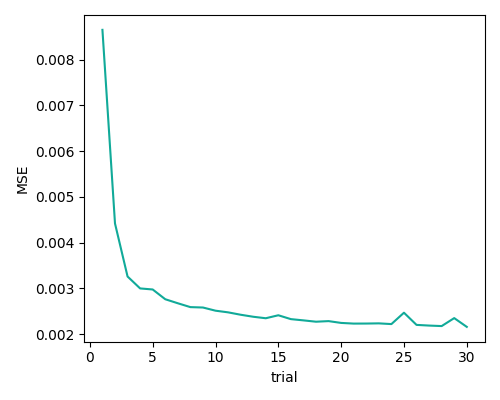
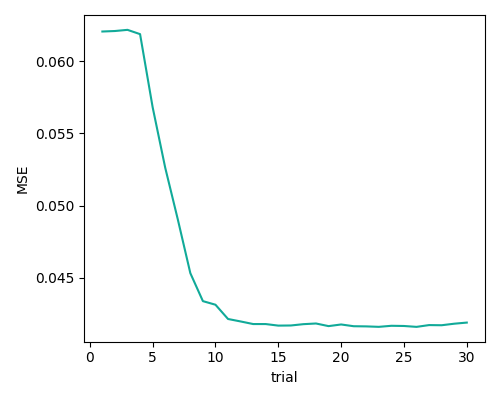
DAE試しに組んでみた

diff --git a/detectDAE.py b/detectDAE.py
@@ -1,0 +1,227 @@
+# -*- coding: utf-8 -*-
+from os import path
+from glob import glob
+import numpy as np
+import matplotlib.pyplot as plt
+from matplotlib.image import imsave,imread
+from skimage.transform import resize
+import os,time,torch
+from torch import nn
+mse = nn.MSELoss()
+
+
+## ニューラルネットワークモデル ##
+    
+class autoencoder(nn.Module):
+    def __init__(self, cn=3):
+        super(autoencoder, self).__init__()
+        self.encoder = nn.Sequential(
+            nn.Linear(128 * 128, 256),  # 入力サイズあってる？
+            nn.ReLU(True),
+            nn.Linear(256, 64),
+            nn.ReLU(True))
+        self.decoder = nn.Sequential(
+            nn.Linear(64, 256),
+            nn.ReLU(True),
+            nn.Linear(256, 128 * 128),  # 出力サイズも
+            nn.Sigmoid())
+
+    def forward(self, x):
+        x = x.view(x.size(0), -1)  # 入力を1次元に変換
+        x = self.encoder(x)
+        x = self.decoder(x)
+        x = x.view(x.size(0), 1, 128, 128)  # 出力を画像の形状に変換
+        return x
+
+
+
+
+
+## データローダ ##
+
+class Gazoudalo:
+    def __init__(self,folder,px,n_batch=4,random=False):
+        self.input_folder = folder + '/input' # データの保存したinputフォルダ
+        self.teach_folder = folder + '/teach' # データの保存したteachフォルダ
+        self.px = px # 画像の大きさ
+        self.n_batch = n_batch # バッチサイズ
+        self.random = random # ランダムするかどうか
+        self.input_file = np.sort(glob(os.path.join(self.input_folder,'*.jpg'))) # フォルダの中の全部の画像の名前
+        self.teach_file = np.sort(glob(os.path.join(self.teach_folder,'*.jpg'))) # フォルダの中の全部の画像の名前
+        self.len = len(self.input_file) # 画像の枚数
+        self.nkai = int(np.ceil(self.len/n_batch)) # このバッチサイズで繰り返すことができる回数
+
+    def __iter__(self):
+        self.i_iter = 0
+        if(self.random):
+            np.random.seed(None)
+            # ランダムで順番を入れ替える
+            self.i_rand = np.random.permutation(self.len)
+        else:
+            np.random.seed(0)
+            self.i_rand = np.arange(self.len)
+        return self
+
+    def __next__(self):
+        if(self.i_iter>=self.len):
+            raise StopIteration
+
+        x = []
+        y = []
+        for i in self.i_rand[self.i_iter:self.i_iter+self.n_batch]:
+            xi = imread(self.input_file[i])/255. # input読み込み
+            yi = imread(self.teach_file[i])/255. # teach読み込み
+
+            # 指定のサイズに変える
+            xi = resize(xi,(self.px,self.px),anti_aliasing=True,mode='constant')
+            yi = resize(yi,(self.px,self.px),anti_aliasing=True,mode='constant')
+            xi = torch.Tensor(xi[None, :, :])
+            yi = torch.Tensor(yi[None, :, :])
+            x.append(xi)
+            y.append(yi)
+
+        x = torch.stack(x)
+        y = torch.stack(y)
+        self.i_iter += self.n_batch
+        return x,y
+
+
+## 画像変換器 ##
+
+class Dinonet:
+    def __init__(self,net,cn,save_folder,learning_rate=1e-3,gpu=0):
+        self.learning_rate = learning_rate
+        self.cn = cn
+        self.net = net(cn=cn)
+        self.opt = torch.optim.Adam(self.net.parameters(),lr=learning_rate)
+        if(gpu):
+            # GPUを使う場合
+            self.dev = torch.device('cuda')
+            self.net.cuda()
+        else:
+            self.dev = torch.device('cpu')
+
+        self.save_folder = save_folder
+        # 保存のフォルダが元々なければ予め作っておく
+        if(not os.path.exists(save_folder)):
+            os.mkdir(save_folder)
+        # 最初から開始
+        self.mounankai = 0
+        self.loss = []
+        self.psnr = []
+
+    def gakushuu(self,dalo_train,dalo_test,n_loop,n_kaku=5,cnt_multi=10):
+        print('訓練:%d枚 | 検証%d枚'%(dalo_train.len,dalo_test.len))
+        t0 = time.time()
+        test_data = []
+        for da_ken in dalo_test:
+            test_data.append(da_ken)
+        dalo_train.random = True
+        print('画像の準備に%.3f分かかった'%((time.time() - t0)/60))
+        print('==学習開始==')
+
+        t0 = time.time()
+        # 何回も繰り返して訓練する
+        for kaime in range(self.mounankai,self.mounankai+n_loop):
+            # ミニバッチ開始
+            for i_batch,(x,y) in enumerate(dalo_train):
+                z = self.net(x.to(self.dev))
+                lossMSE = mse(z,y.to(self.dev)) # 訓練データの損失
+                self.opt.zero_grad()
+                lossMSE.backward()
+                self.opt.step()
+
+                # 検証データにテスト
+                if((i_batch+1)%int(np.ceil(dalo_train.nkai/cnt_multi))==0 or i_batch==dalo_train.nkai-1):
+                    self.net.eval()
+                    lossMSE = []
+                    psnrMSE = []
+                    if(n_kaku):
+                        gazou = []
+                        n_kaita = 0
+
+                    for x,y in test_data:
+                        z = self.net(x.to(self.dev))
+                        # 検証データの損失
+                        lossMSE.append(mse(z,y.to(self.dev)).item())
+                        psnrMSE.append(10*np.log10((1^2)/mse(z,y.to(self.dev)).item()))
+                        # 検証データからできた一部の画像を書く
+                        # if(n_kaita<n_kaku):
+                        #     x = x.numpy().transpose(0,2,3,1) # 入力
+                        #     y = y.numpy().transpose(0,2,3,1) # 模範
+                        #     z = np.clip(z.cpu().detach().numpy(),0,1).transpose(0,2,3,1) # 出力
+                        #     for i,(xi,yi,zi) in enumerate(zip(x,y,z)):
+                        #         # [入力、出力、模範]
+                        #         gazou.append(np.vstack([xi,zi,yi]))
+                        #         n_kaita += 1
+                        #         if(n_kaita>=n_kaku):
+                        #             break
+                    lossMSE = np.mean(lossMSE)
+                    psnrMSE = np.mean(psnrMSE)
+                    # if(n_kaku):
+                    #     gazou = np.hstack(gazou)
+                    #     # imsave(os.path.join(self.save_folder,'kekka%03d.jpg'%(kaime+1)),gazou)
+
+                    # 今の状態を出力する
+                    print('%d:%d/%d ~ 損失:%.4e %.2f分過ぎた'%(kaime+1,i_batch+1,dalo_train.nkai,lossMSE,(time.time()-t0)/60))
+                    print('PSNR = {}'.format(psnrMSE))
+                    self.net.train()
+
+            # ミニバッチ一回終了
+            self.loss.append(lossMSE)
+            self.psnr.append(psnrMSE)
+            # パラメータや状態を保存する
+            # sd = dict(w=self.net.state_dict(),o=self.opt.state_dict(),n=kaime+1,l=self.loss)
+            # torch.save(sd,os.path.join(self.save_folder,'netparam.pkl'))
+
+            # 損失（MSE）の変化を表すグラフを書く
+            plt.figure(figsize=[5,4])
+            plt.xlabel('trial')
+            plt.ylabel('MSE')
+            ar = np.arange(1,kaime+2)
+            plt.plot(ar,self.loss,'#11aa99')
+            plt.tight_layout()
+            plt.savefig(os.path.join(self.save_folder,'graph_DAE.png'))
+            plt.close()
+
+            # PSNRの変化を表すグラフを書く
+            plt.figure(figsize=[5,4])
+            plt.xlabel('trial')
+            plt.ylabel('PSNR(DAE)')
+            ar = np.arange(1,kaime+2)
+            plt.plot(ar,self.psnr,'#11aa99')
+            plt.tight_layout()
+            plt.savefig(os.path.join(self.save_folder,'psnr_DAE.png'))
+            plt.close()
+
+    def __call__(self,x,n_batch=8):
+        self.net.eval()
+        x = torch.Tensor(x)
+        y = []
+        for i in range(0,len(x),n_batch):
+            y.append(self.net(x[i:i+n_batch].to(self.dev)).detach().cpu())
+        return torch.cat(y).numpy()
+
+
+## 実行 ##
+
+train_folder = path.join(path.dirname(__file__), 'train') # 訓練データのフォルダ
+test_folder = path.join(path.dirname(__file__), 'test') # 検証データのフォルダ
+save_folder = path.join(path.dirname(__file__), 'save') # 結果を保存するフォルダ
+cn = 1 # チャネル数 (3色データ)
+n_batch = 8 # バッチサイズ
+px = 128 # 画像の大きさ
+n_loop = 30 # 何回繰り返すか
+n_kaku = 6 # 見るために結果の画像を何枚出力する
+cnt_multi = 10 # 一回の訓練で何回結果を出力する
+
+# 使うモデルを選ぶ
+model = autoencoder
+
+
+dalo_train = Gazoudalo(train_folder,px,n_batch) # 訓練データ
+dalo_test = Gazoudalo(test_folder,px,n_batch) # 検証データ
+dino = Dinonet(model,cn,save_folder)
+# 学習開始
+dino.gakushuu(dalo_train,dalo_test,n_loop,n_kaku,cnt_multi)
+print("finish")
